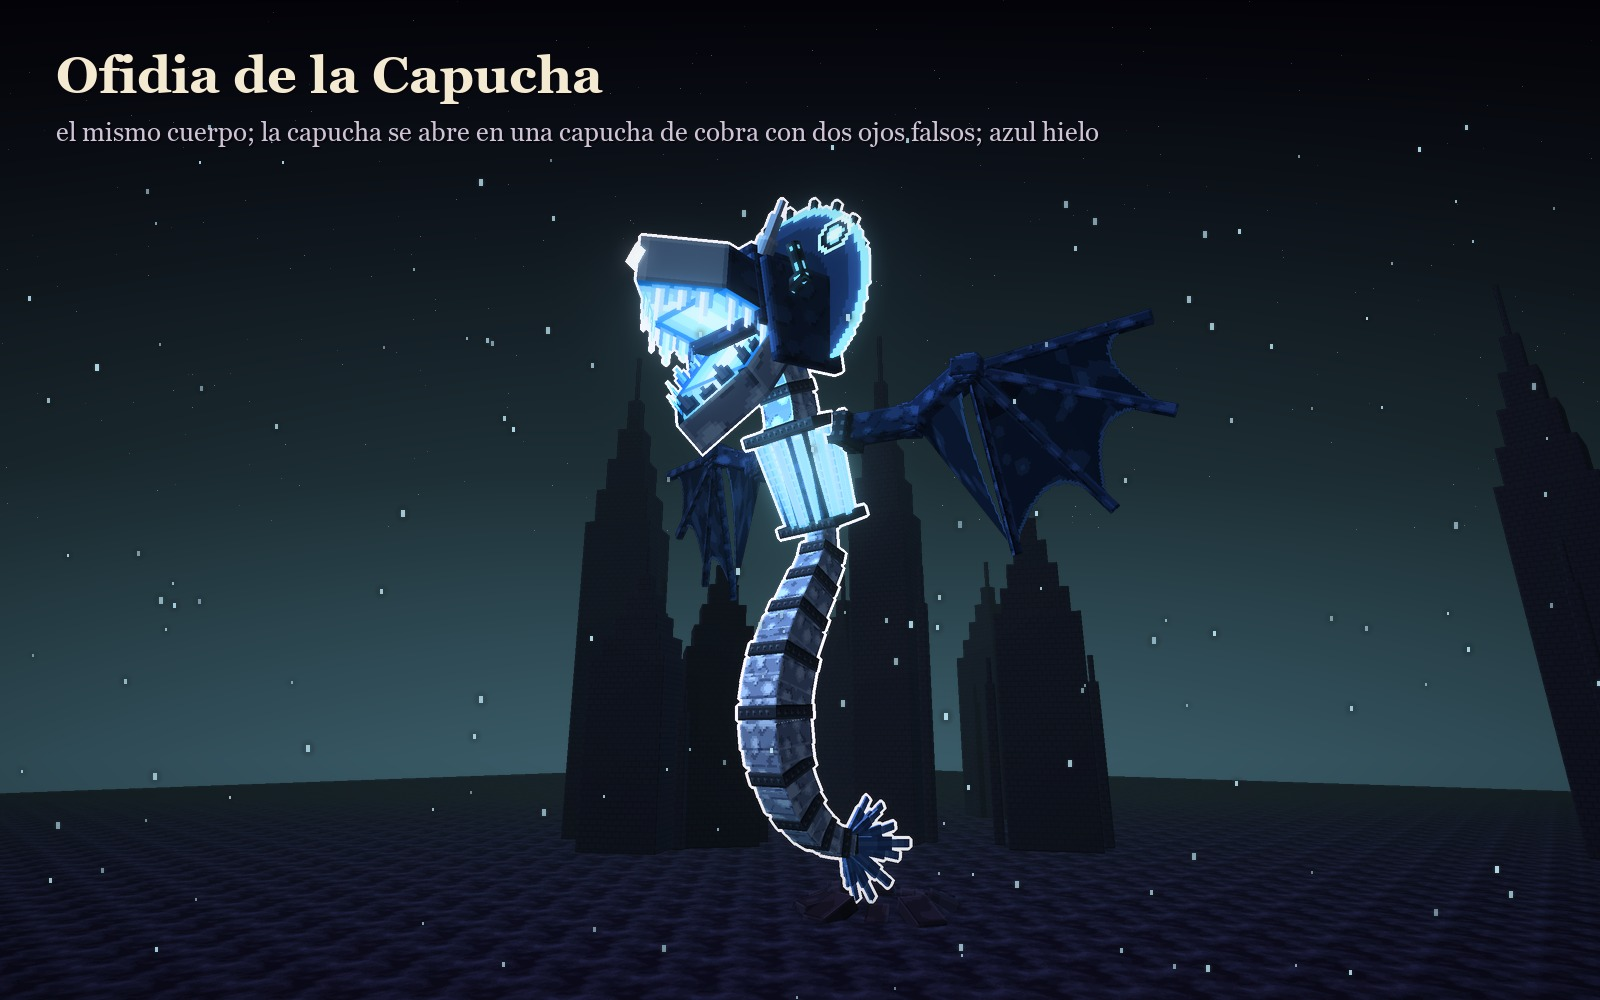
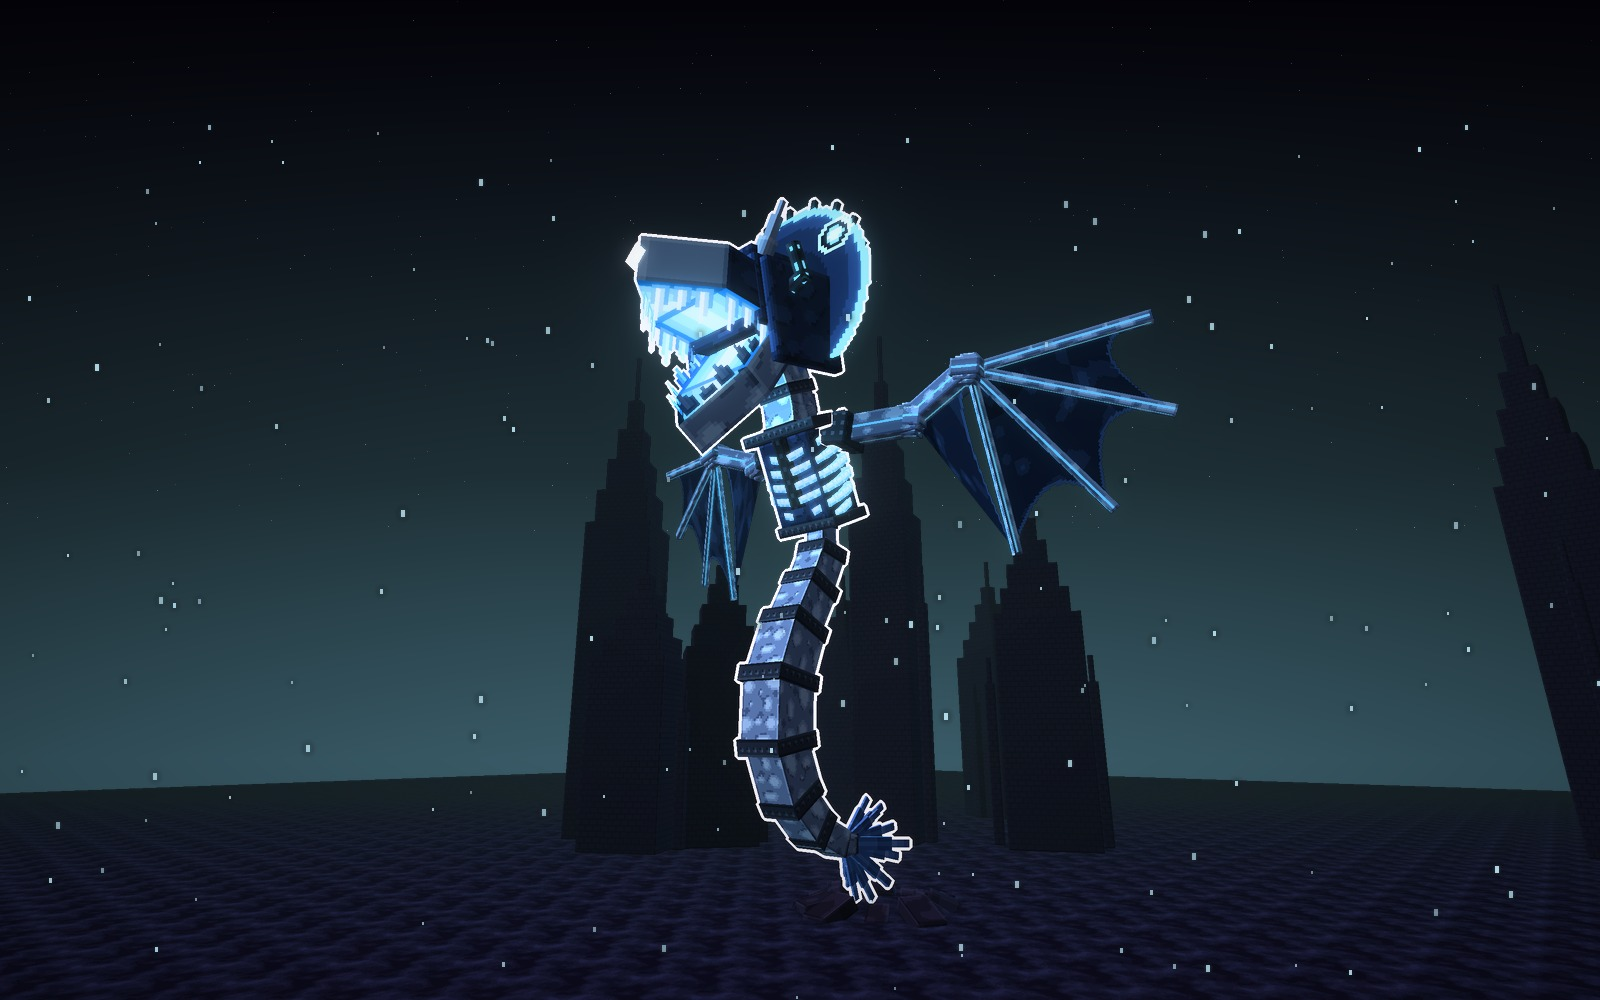
Ofidia sheet: real ribs, one-piece drums, glowing wing bones, no text
- ribs are curved bones again (spine to sternum, widest in the middle,
  the two lowest ones floating), not vertical bars
- the S body is made of straight one-piece drums with a thick belt at
  each joint and no twisting, instead of one-block slices
- wing bones get a thin neon streak that glows a little
- renders for fichas carry no text (titles, subtitles or labels);
  the rule is also written in the monster guide

diff --git a/materiales/generadores/ofidia_modelo.py b/materiales/generadores/ofidia_modelo.py
@@ -18,16 +18,16 @@ bien su portada».
       con la mandibula de abajo colgando por delante; las alas, abiertas a los lados; debajo de
       la cintura, el cuerpo baja, se abomba hacia delante por debajo de la cabeza y se curva
       hacia atras hasta la aleta roja;
-    - de arriba abajo, por la ese: el costillar, que es solo costillas (barras rosas que
-      brillan, de arriba abajo alrededor del pecho como una jaula, asi en el cartel y en el
-      directo; mas juntas abajo que arriba, con huecos oscuros y la columna detras); la cintura,
-      pequena; y
+    - de arriba abajo, por la ese: el costillar, que es solo costillas (seis pares de huesos
+      curvos que brillan: salen de la columna, rodean el pecho bajando un poco y vuelven por
+      delante hasta el esternon; las del medio, las mas anchas; las dos de abajo, sueltas); la
+      cintura, pequena; y
       debajo, tambores de marmol con su cinturon que van de menor a mayor y de mayor a menor
       hasta la cola (lo mas gordo, a la mitad, el doble que la cintura, sin llegar a ancho);
     - dos alas de murcielago: el brazo (codo hacia atras, muneca hacia delante) y cuatro dedos
       largos en abanico, con la membrana azul noche tendida solo entre ellos y el borde libre en
-      arcos (nada en las axilas). No llevan luz y son oscuras (los huesos, del azul de la
-      capucha), para que no le quiten la vista a la cabeza;
+      arcos (nada en las axilas). Sin cubos de luz; los huesos, de marmol oscuro, llevan una
+      veta del neon que brilla un poco;
     - la cabeza, GRANDE Y MACIZA como en el cartel (se hace sin escala y se pone 1,4 veces mas
       grande, con el pixel del mismo tamano que el del cuerpo): una capucha alta de azul noche,
       en capas, con el pico en escalones hacia atras, melenas oscuras que se rizan detras como
@@ -254,10 +254,19 @@ def pintores(V):
     reg('capucha', capucha)
 
     def ala_hueso(tw, th, cara, s):
-        """Los huesos de las alas: oscuros, del azul de la capucha con manchas azules, para que
-        las alas no le quiten la vista a la cabeza."""
-        idx = np.array([0, 1, 2, 3, 4])[_tesela(tw, th, s + 9)]
-        return _imagen(_bisel(idx), V['capucha']), None
+        """Los huesos de las alas: el marmol, mas oscuro que el del cuerpo, con una veta del neon
+        a lo largo que brilla un poco (Juan: «quiero que tenga ese toque de iluminado un poco»)."""
+        idx = np.array([0, 1, 1, 2, 3])[_tesela(tw, th, s + 9)]
+        tex = _imagen(_bisel(idx), V['marmol'])
+        veta = np.zeros((th, tw), bool)
+        if tw >= th and th >= 3:
+            veta[th // 2, 1:-1] = True
+        elif tw >= 3:
+            veta[1:-1, tw // 2] = True
+        if not veta.any():
+            return tex, None
+        tex[veta] = (*nm._hex(V['neon'][1]), 255)
+        return tex, _emis(tex, veta, 110)
     reg('ala_hueso', ala_hueso)
 
     def cinto(tw, th, cara, s):
@@ -642,11 +651,20 @@ def _radio(f):
     return float(np.interp(f, xs, rs))
 
 
+def _marco_sin_giro(p, d):
+    """Un marco con +Z hacia d que no gira alrededor de la ese: como la ese va de perfil (en el
+    plano y-z), su eje x es siempre el x del mundo."""
+    d = np.asarray(d, float)
+    d = d / np.linalg.norm(d)
+    return em.marco(p, d, up=(0.0, -d[2], d[1]) if abs(d[0]) < 0.9 else (0.0, 1.0, 0.0))
+
+
 def cuerpo_ese(out, V, P):
-    """De la base del costillar a la aleta, por la ese: la cintura, pequena, y debajo tambores de
-    marmol, un poco abombados, con un cinturon entre uno y otro, que van de menor a mayor (lo
-    mas gordo, a la mitad) y de mayor a menor hasta la cola; cada tambor es un poco mas largo que
-    grueso. Al final, la aleta roja que apunta hacia atras."""
+    """De la base del costillar a la aleta, por la ese, en tambores de marmol rectos y de una
+    pieza, como en el cartel (no en rodajas), con un cinturon grueso en cada junta que tapa el
+    codo: la cintura, pequena, y debajo los tambores, que van de menor a mayor (lo mas gordo, a
+    la mitad) y de mayor a menor hasta la cola. No se tuercen: siguen la ese sin girar. Al
+    final, la aleta roja que apunta hacia atras."""
     curva, _ = em.catmull(ESE, 800)
     curva = [np.asarray(p, float) for p in curva]
     L = [0.0]
@@ -659,43 +677,31 @@ def cuerpo_ese(out, V, P):
         f = (m - L[i - 1]) / max(L[i] - L[i - 1], 1e-9)
         return curva[i - 1] + (curva[i] - curva[i - 1]) * min(max(f, 0.0), 1.0)
 
-    cortes = [0.0, PERFIL[1][0] * total]                                          # los cinturones
+    cortes = [0.0, PERFIL[1][0] * total]                                          # las juntas
     while True:
-        largo = max(1.8, 2.2 * _radio((cortes[-1] + 1.0) / total))
-        if cortes[-1] + largo > total - 0.8:
+        largo = max(2.0, 2.5 * _radio((cortes[-1] + 1.2) / total))                # cada tambor, algo mas largo que grueso
+        if cortes[-1] + largo > total - 1.0:
             break
         cortes.append(cortes[-1] + largo)
     cortes.append(total)
-    marcas, cual, inicio = [], [], []                                             # cada tambor, en trozos de un bloque
-    for j in range(len(cortes) - 1):
-        c0, c1 = cortes[j], cortes[j + 1]
-        n = max(1, int(math.ceil((c1 - c0) / 1.0)))
-        inicio.append(len(marcas))
-        for q in range(n):
-            marcas.append(c0 + (c1 - c0) * q / n)
-            cual.append((j, (q + 0.5) / n))
-    marcas.append(total)
-    pts = [en(m) for m in marcas]
-    marcos = sm._marcos(pts, (0, 0, 1))
-    for i, M in enumerate(marcos):
-        j, u = cual[i]
-        Ls = float(np.linalg.norm(pts[i + 1] - pts[i]))
-        r = _radio((marcas[i] + marcas[i + 1]) / 2 / total)
-        if j > 0:
-            r *= 0.9 + 0.1 * math.sin(math.pi * u)                                # el tambor, un poco abombado
-        cubo(out, M, -r, -r, -0.3, 2 * r, 2 * r, Ls + 0.6, P['marmol'], semilla=i)
-    for j in range(len(cortes) - 1):                                              # el cinturon de arriba de cada tambor
-        M = marcos[inicio[j]]
-        c = cortes[j]
-        rb = max(_radio(max(c - 0.05, 0.0) / total) * 0.9, _radio((c + 0.05) / total) * 0.9) * 1.16
-        rb = max(rb, CINTURA * 1.2)
-        cubo(out, M @ vr.T(0, 0, -0.38), -rb, -rb, 0, 2 * rb, 2 * rb, 0.76, P['cinto'], semilla=60 + j)
+    pts = [en(m) for m in cortes]
+    for j in range(len(pts) - 1):                                                 # los tambores
+        d = pts[j + 1] - pts[j]
+        r = _radio((cortes[j] + cortes[j + 1]) / 2 / total)
+        cubo(out, _marco_sin_giro(pts[j], d), -r, -r, -0.35, 2 * r, 2 * r, float(np.linalg.norm(d)) + 0.7, P['marmol'],
+             semilla=j)
+    for j in range(len(pts) - 1):                                                 # los cinturones, en cada junta
+        d = pts[j + 1] - pts[max(j - 1, 0)]
+        r = max(_radio(max(cortes[j] - 0.1, 0.0) / total), _radio((cortes[j] + 0.1) / total))
+        rb = r * 1.15
+        cubo(out, _marco_sin_giro(pts[j], d), -rb, -rb, -0.45, 2 * rb, 2 * rb, 0.9, P['cinto'], semilla=60 + j)
         if V['clave'] == 'C' and j >= 1 and j % 2 == 1:                           # cadenas que cruzan el tambor
-            i = inicio[j] + (inicio[j + 1] - inicio[j]) // 2 if j + 1 < len(inicio) else inicio[j]
-            Mm = marcos[i]
-            r = _radio(marcas[i] / total) * 1.02
+            dd = pts[j + 1] - pts[j]
+            Mm = _marco_sin_giro(pts[j], dd)
+            Lj = float(np.linalg.norm(dd))
+            r = _radio((cortes[j] + cortes[j + 1]) / 2 / total) * 1.02
             for sx in (1, -1):
-                cadena(out, punto(Mm, (-sx * r, r, -0.8)), punto(Mm, (sx * r, r, 1.6)), 0.7, P['oxido'], semilla=j)
+                cadena(out, punto(Mm, (-sx * r, r, 0.5)), punto(Mm, (sx * r, r, Lj - 0.5)), 0.7, P['oxido'], semilla=j)
     fin = pts[-1]
     t = pts[-1] - pts[-2]
     aleta(out, fin, t / np.linalg.norm(t), P)
@@ -754,19 +760,27 @@ def ofidia(variante='O'):
     torso = []
     Mt = vr.T(0, 21.75, 0.0) @ np.diag([1.0, 1.12, 1.0, 1.0])
     cubo(torso, Mt, -0.55, -2.6, -1.85, 1.1, 5.3, 0.95, P['columna'], semilla=4)                  # la columna
-    cubo(torso, Mt, -1.6, -2.4, -1.4, 3.2, 4.8, 2.9, P['capucha'], semilla=6)                     # lo de dentro, oscuro
-    # las costillas, como en el cartel y en el directo: barras rosas que brillan, de arriba abajo
-    # alrededor del pecho, como una jaula, mas juntas abajo que arriba y con huecos oscuros
-    for j, th in enumerate((-150, -120, -90, -60, -30, 0, 30, 60, 90, 120, 150)):
-        a = math.radians(th)
-        p_arriba = punto(Mt, (2.55 * math.sin(a), 2.25, 1.85 * math.cos(a)))
-        p_abajo = punto(Mt, (2.0 * math.sin(a), -2.45, 1.5 * math.cos(a)))
-        viga(torso, p_abajo, p_arriba, 0.62, 0.62, P['costilla'], extra=0.1, semilla=7 + j % 5)
+    cubo(torso, Mt, -0.4, -1.5, 1.5, 0.8, 4.0, 0.5, P['columna'], semilla=5)                      # el esternon
+    cubo(torso, Mt, -2.0, -2.4, -1.45, 4.0, 4.8, 2.95, P['capucha'], semilla=6)                   # lo de dentro, oscuro
+    # las costillas (Juan: «no parecen costillas sino barras»): seis pares de huesos curvos que
+    # salen de la columna, rodean el pecho bajando un poco y vuelven por delante hasta el
+    # esternon; las del medio son las mas anchas (el pecho, como un barril) y las dos de abajo
+    # quedan sueltas, sin llegar al esternon. Brillan, con huecos oscuros entre ellas
+    for j, (y, a, suelta) in enumerate(((2.15, 1.9, False), (1.35, 2.35, False), (0.55, 2.6, False),
+                                        (-0.25, 2.6, False), (-1.05, 2.4, True), (-1.85, 2.0, True))):
+        for sx in (1, -1):
+            ctrl = [(sx * 0.45, y + 0.2, -1.5), (sx * a * 0.85, y, -1.0), (sx * a, y - 0.3, 0.1),
+                    (sx * a * 0.8, y - 0.6, 1.1), (sx * (0.95 if suelta else 0.45), y - 0.85, 1.3 if suelta else 1.7)]
+            pts, _ = em.catmull([punto(Mt, c) for c in ctrl], 9)
+            for q in range(len(pts) - 1):
+                viga(torso, pts[q], pts[q + 1], 0.5, 0.42, P['costilla'], extra=0.12, semilla=7 + (j + q) % 5)
     cubo(torso, Mt, -2.9, 2.45, -1.7, 5.8, 0.6, 3.5, P['cinto'], semilla=13)                      # los hombros
     cubo(torso, Mt, -2.3, -2.95, -1.75, 4.6, 0.55, 3.4, P['cinto'], semilla=14)                   # el cinturon de abajo
     if k == 'C':                                                                                  # barrotes: el pecho es una celda
-        for y in (1.3, 0.0, -1.3):
-            viga(torso, punto(Mt, (-2.5, y, 2.1)), punto(Mt, (2.5, y, 2.1)), 0.26, 0.26, P['oxido'], semilla=15)
+        for x in (-1.6, -0.85, 0.85, 1.6):
+            viga(torso, punto(Mt, (x, 2.4, 2.25)), punto(Mt, (x, -2.6, 2.25)), 0.24, 0.24, P['oxido'], semilla=14)
+        for y in (1.1, -1.2):
+            viga(torso, punto(Mt, (-2.4, y, 2.3)), punto(Mt, (2.4, y, 2.3)), 0.22, 0.22, P['oxido'], semilla=15)
     G = vr.T(*ANCLA) @ vr.Rx(INCLINA * D) @ vr.T(0, -18.8, 0)
     out += qm.transformar(torso, G)
 

diff --git a/materiales/generadores/ofidia_escenas.py b/materiales/generadores/ofidia_escenas.py
@@ -4,6 +4,8 @@ una en la misma explanada de noche con agujas de catedral detras (como el cartel
 y alumbrada por su neon; las cabezas de cerca; las cuatro juntas con un jugador; y la lamina
 de materiales.
 
+Las fotos salen sin letras: las fichas no llevan titulo ni texto encima de los renders.
+
 Uso: python ofidia_escenas.py <raiz del proyecto> <carpeta de salida> [escena,escena...]
      (con RAPIDO=1 en el entorno, a media resolucion para probar)
 """
@@ -221,8 +223,8 @@ def escena(cual, camara, nombre, sub, n_motas, contorno=False, brillo=0.9, S=Non
     om.dibujar(lz, cam, qs[:len(qs) - n], luces, S['amb'], niebla)
     if contorno:
         perfilar(lz, lz.z < z0, max(1, int(round(3 * SS * K))))
-    img = revelar(lz, cam, W, H, S, n_motas=n_motas, brillo=brillo)
-    return qe.rotular(img, nombre, sub)
+    # sin letras: las fotos de las fichas no llevan titulo ni texto encima (Juan, 13-10)
+    return revelar(lz, cam, W, H, S, n_motas=n_motas, brillo=brillo)
 
 
 def heroe(cual):
@@ -247,10 +249,7 @@ def cuatro():
         qs, info = om.ofidia(cual)
         om.dibujar(lz, cam, qm.transformar(qs, vr.T(x, 0, 0) @ vr.Ry(-50 * D)), S['luces'], S['amb'], niebla)
     nm.dibujar(lz, cam, nm.quads(ne.jugador(), {}, ne.jugador_a_mundo(0.0, 20.0, 0)), S['luces'], S['amb'], niebla)
-    img = revelar(lz, cam, W, H, S, n_motas=0)
-    P = np.array([p for q in om.ofidia('O')[0] for p in q[0]])
-    guardar(qe.rotular(img, 'La original y sus tres variantes', 'la original · de la Capucha · de los Faroles · Encadenada · '
-                       'un jugador (1,8) delante · unos %.0f bloques de alto' % P[:, 1].max()), 'cuatro')
+    guardar(revelar(lz, cam, W, H, S, n_motas=0), 'cuatro')
 
 
 def materiales():
@@ -265,30 +264,22 @@ def materiales():
                 (P['ala_hueso'], 'hueso del ala', 'der', 24, 24), (P['membrana'], 'membrana', 'frente', 32, 24),
                 (P[propio[0]], propio[1], propio[2], propio[3], propio[4])]
         filas.append((c, fila))
+    # sin letras: el orden de las muestras se explica en la ficha
     celda = 168
-    H = 130 + len(filas) * (celda + 76)
+    H = 40 + len(filas) * (celda + 30) + 10
     img = Image.new('RGB', (W, H), (16, 15, 20))
     d = ImageDraw.Draw(img)
-    try:
-        f1 = ImageFont.truetype(FUENTE + 'georgiab.ttf', 40)
-        f2 = ImageFont.truetype(FUENTE + 'consola.ttf', 17)
-        f3 = ImageFont.truetype(FUENTE + 'georgiab.ttf', 24)
-    except OSError:
-        f1 = f2 = f3 = ImageFont.load_default()
-    d.text((48, 34), 'Materiales: dibujados a 8 pixeles por bloque, sin ruido', font=f1, fill=(244, 234, 210))
     for fi, (c, fila) in enumerate(filas):
-        y0 = 120 + fi * (celda + 76)
-        d.text((48, y0 + celda // 2 - 14), c, font=f3, fill=(244, 234, 210))
+        y0 = 40 + fi * (celda + 30)
         for k, (pintor, nombre, cara, tw, th) in enumerate(fila):
             t, e = pintor(tw, th, cara, 7)
             fondo = Image.new('RGBA', (tw, th), (40, 36, 46, 255))
             fondo.alpha_composite(Image.fromarray(t))
             esc = min(celda / tw, celda / th)
             im = fondo.resize((max(1, int(tw * esc)), max(1, int(th * esc))), Image.NEAREST)
-            cx = 96 + k * 186
+            cx = 48 + k * 192
             img.paste(im.convert('RGB'), (cx + (celda - im.width) // 2, y0 + (celda - im.height) // 2))
             d.rectangle((cx - 1, y0 - 1, cx + celda, y0 + celda), outline=(70, 64, 80))
-            d.text((cx, y0 + celda + 8), nombre, font=f2, fill=(220, 212, 196))
     guardar(img, 'materiales')
 
 

diff --git a/materiales/fichas/ofidia/LEEME.md b/materiales/fichas/ofidia/LEEME.md
@@ -5,7 +5,7 @@ Eufonia Studio. Su cartel oficial está en
 https://x.com/dedsafio/status/2109039127597560179.
 
 Juan pidió el 12-10-2026 recrearla igual y hacerle variantes propias, «para no copiarla
-como tal». Hicieron falta catorce versiones:
+como tal». Hicieron falta quince versiones:
 
 1. La primera no se parecía: «fíjate bien cómo es Ofidia… date tu tiempo, investiga
    más».
@@ -65,6 +65,14 @@ como tal». Hicieron falta catorce versiones:
     costillas que se vean más abajo, y luego que esté lo demás». Los dientes son hojas con
     los dientes dibujados (la fila de colmillos de arriba y los dientes rojos de abajo), y la
     cabeza va sobre un cuello de dos tambores de mármol, con el costillar a la vista debajo.
+15. La decimoquinta: «el cuerpo de ese después de las costillas me sigue pareciendo raro»;
+    «las costillas no parecen costillas sino barras»; y en los huesos de las alas, «quiero
+    que tenga ese toque de iluminado un poco». El cuerpo va en tambores rectos de una pieza,
+    con un cinturón grueso en cada junta, en vez de rodajas de un bloque (que hacían el
+    borde en escalera); las costillas son huesos curvos, de la columna al esternón; y los
+    huesos de las alas llevan una veta del neón que brilla un poco. Desde esta versión, las
+    fotos van sin letras: «todas las fichas que guardes no deben de tener letras en las
+    fotos».
 
 **La original es solo para estudiarla; no va al mod.** Las candidatas son las tres
 variantes. A Juan le gustó la Encadenada.
@@ -97,21 +105,23 @@ En la forma de monstruo se ve:
   - la cabeza, sobre un cuello de dos tambores de mármol que sube del pecho y se adelanta;
   - el pecho, a la vista debajo de la cabeza;
   - la cintura, pequeña;
-  - tambores de mármol, un poco abombados, que van de menor a mayor y de mayor a menor;
+  - tambores de mármol rectos, de una pieza, con un cinturón grueso en cada junta, que van
+    de menor a mayor y de mayor a menor;
     lo más gordo, a la mitad, es el doble que la cintura; en general, es estrecho;
   - la aleta roja.
 
   Mide unos 47 bloques de alto con los cebos.
-- **El pecho es solo costillas**: barras rosas que brillan, de arriba abajo alrededor del
-  pecho como una jaula (así en la portada y en el directo), más juntas abajo que arriba,
-  con huecos oscuros entre ellas y la columna detrás.
+- **El pecho es solo costillas**: seis pares de huesos curvos rosas que brillan. Salen de
+  la columna, rodean el pecho bajando un poco y vuelven por delante hasta el esternón; las
+  del medio son las más anchas y las dos de abajo quedan sueltas. Entre ellas, huecos
+  oscuros.
 - **Dos alas de murciélago, no brazos**:
   - el brazo, con el codo hacia atrás y la muñeca hacia delante;
   - cuatro dedos largos que salen de la muñeca en abanico;
   - la membrana azul noche tendida entre los dedos, con el borde en arcos;
   - en las axilas no hay membrana;
-  - no llevan luz, y son oscuras (los huesos, del azul de la capucha), para que no le
-    quiten la vista a la cabeza.
+  - no llevan cubos de luz; los huesos, de mármol oscuro, tienen una veta del neón que
+    brilla un poco.
 - **La cabeza** es grande y maciza, como en la portada, y tiene:
   - una capucha alta de azul noche, en capas, con el pico en escalones hacia atrás, unas
     melenas oscuras que se rizan detrás como algas y una fila de pinchos;

diff --git a/materiales/fichas/COMO_HACEMOS_LOS_MONSTRUOS.md b/materiales/fichas/COMO_HACEMOS_LOS_MONSTRUOS.md
@@ -136,6 +136,9 @@ grande.
 - La carpeta es `materiales/fichas/<nombre>/`.
 - Los renders se llaman `<nombre>_<variante>_heroe.jpg` y `<nombre>_<variante>_cabeza.jpg`,
   más `<nombre>_tres_variantes.jpg` (o `_cuatro_`) y `<nombre>_materiales.jpg`.
+- **Las fotos van sin letras** (Juan, 13-10-2026: «todas las fichas que guardes no deben de
+  tener letras en las fotos»): nada de título ni subtítulo encima del render, ni rótulos en
+  la lámina de materiales. Lo que haya que decir va en el texto de la ficha.
 - El `LEEME.md` lleva:
   - lo que comparten las variantes;
   - cada variante;
